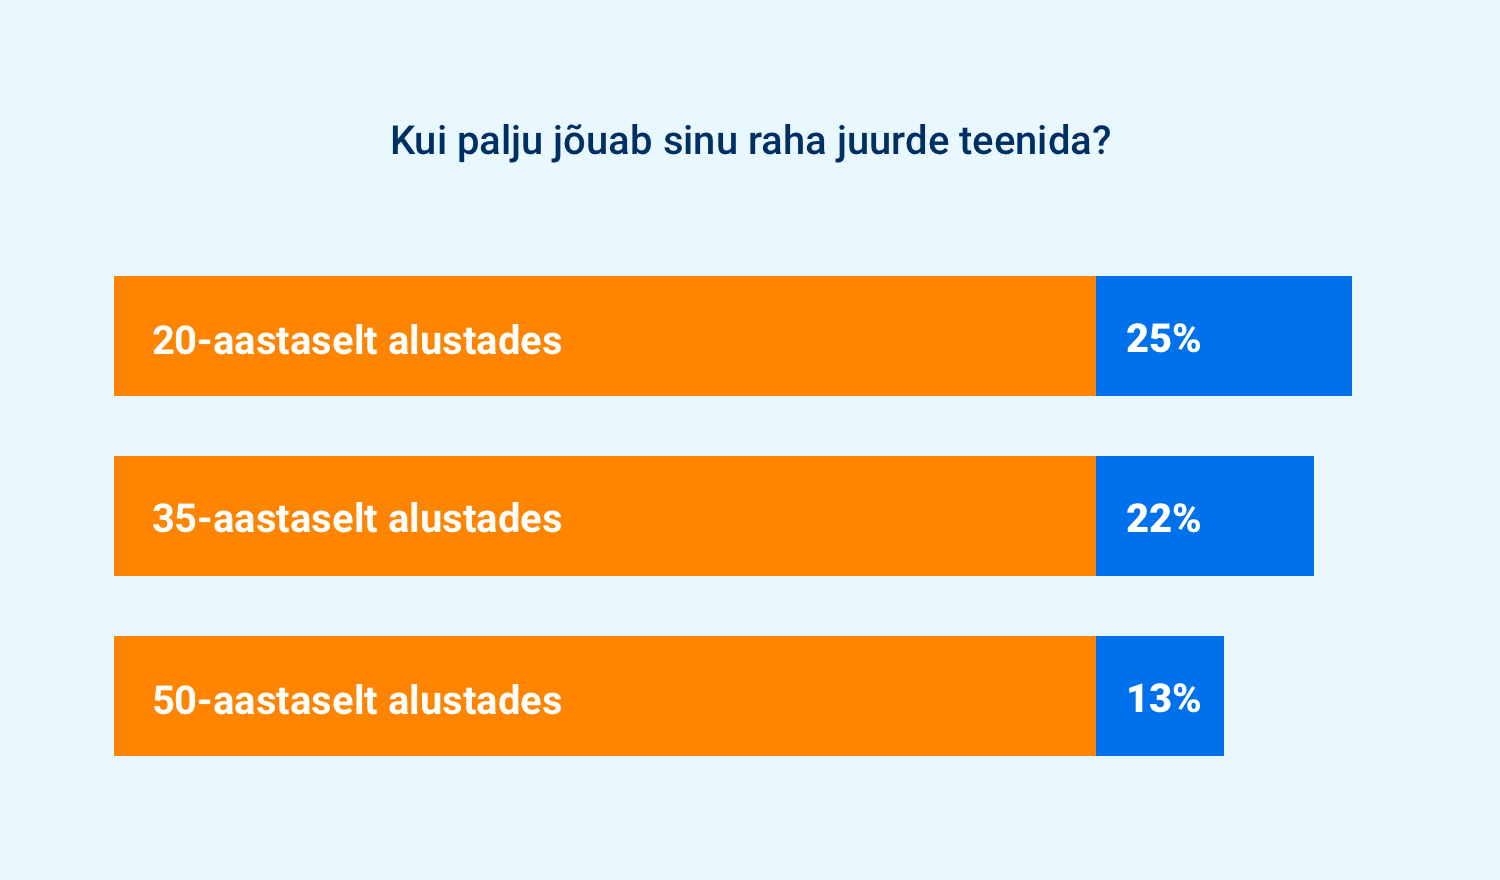
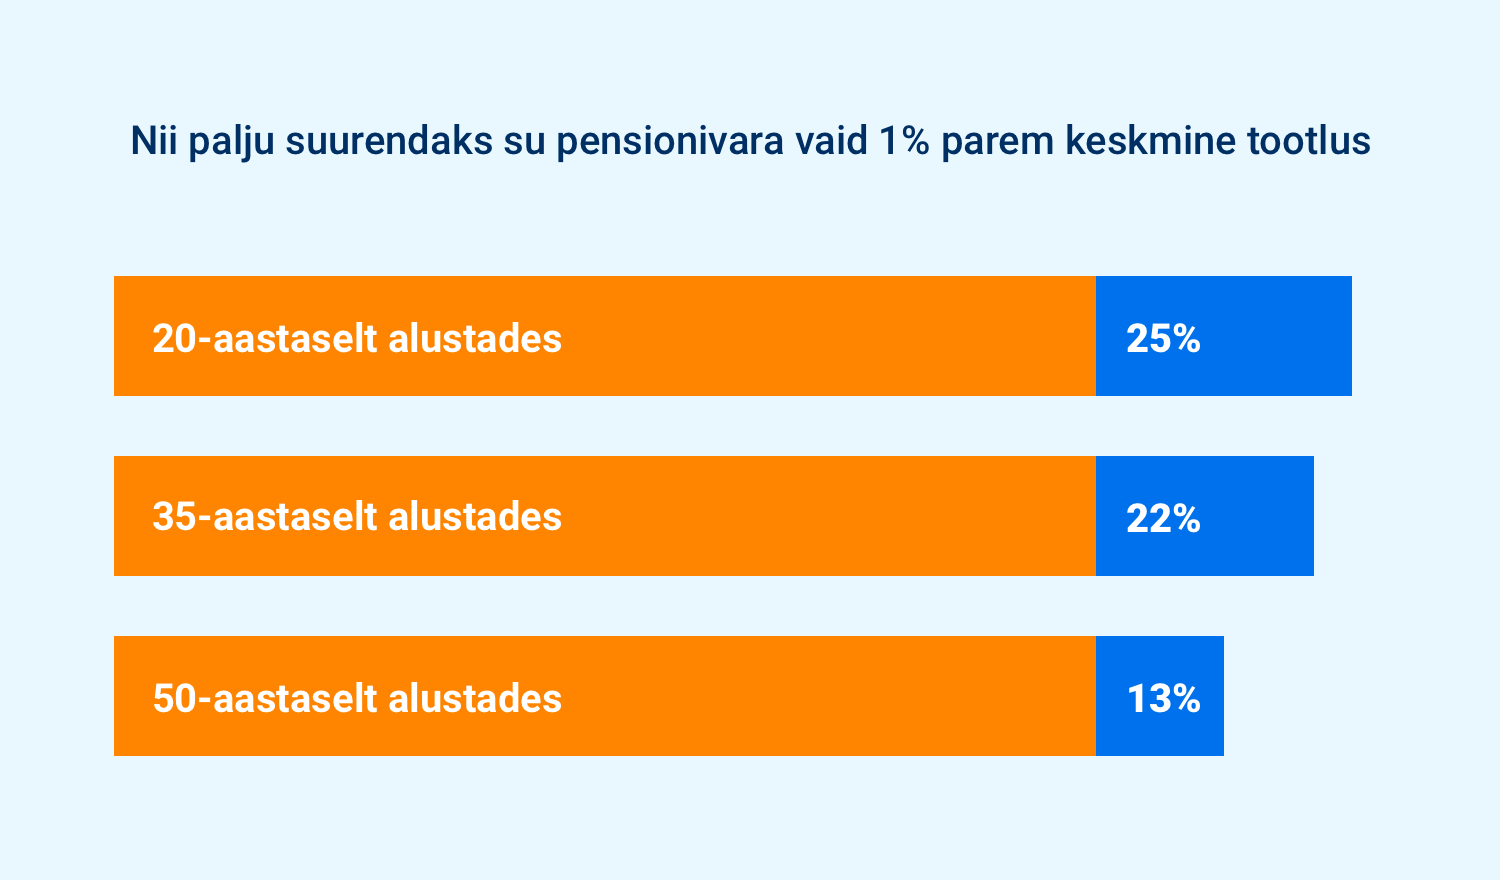
Referral page tweaks

diff --git a/src/wp-content/themes/tuleva/css/main.css b/src/wp-content/themes/tuleva/css/main.css
@@ -7824,6 +7824,9 @@ small,
   background: url("../img/icon-plussign.svg") no-repeat right center;
   white-space: normal; }
 
+.principle__item:hover {
+  cursor: pointer; }
+
 .principle blockquote {
   font-size: 1.25rem;
   color: #002F63; }
@@ -7998,19 +8001,20 @@ small,
       background-image: linear-gradient(180deg, rgba(209, 244, 255, 0.88), rgba(209, 244, 255, 0.88)), url("../img/nyc_w_480.jpg"); } }
 
 .bg-hero-referral {
-  background-image: linear-gradient(180deg, rgba(209, 244, 255, 0.92), rgba(209, 244, 255, 0.92)), url("../img/hands.jpg");
-  background-position: 0px 0px, 50% 0px;
+  background-image: linear-gradient(180deg, rgba(209, 244, 255, 0.92), rgba(209, 244, 255, 0.92)), url("../img/hands_w_2170.jpg");
+  background-position: 0px 0px, 50% 35%;
   background-size: auto, cover;
   background-repeat: repeat, no-repeat; }
   @media (max-width: 1199px) {
     .bg-hero-referral {
-      background-image: linear-gradient(180deg, rgba(209, 244, 255, 0.92), rgba(209, 244, 255, 0.92)), url("../img/hands_w_1400.jpg"); } }
+      background-image: linear-gradient(180deg, rgba(209, 244, 255, 0.92), rgba(209, 244, 255, 0.92)), url("../img/hands_w_1613.jpg"); } }
   @media (max-width: 767px) {
     .bg-hero-referral {
-      background-image: linear-gradient(180deg, rgba(209, 244, 255, 0.92), rgba(209, 244, 255, 0.92)), url("../img/hands_w_1291.jpg"); } }
+      background-image: linear-gradient(180deg, rgba(209, 244, 255, 0.92), rgba(209, 244, 255, 0.92)), url("../img/hands_w_1145.jpg");
+      background-position: 0px 0px, 75% 35%; } }
   @media (max-width: 575px) {
     .bg-hero-referral {
-      background-image: linear-gradient(180deg, rgba(209, 244, 255, 0.92), rgba(209, 244, 255, 0.92)), url("../img/hands_w_610.jpg"); } }
+      background-image: linear-gradient(180deg, rgba(209, 244, 255, 0.92), rgba(209, 244, 255, 0.92)), url("../img/hands_w_480.jpg"); } }
 
 .bg-blueish-gray {
   background: #f0f4f7; }

diff --git a/src/wp-content/themes/tuleva/scss/_themes.scss b/src/wp-content/themes/tuleva/scss/_themes.scss
@@ -72,18 +72,19 @@
 }
 
 .bg-hero-referral {
-    background-image: linear-gradient(180deg, rgba(209, 244, 255, .92), rgba(209, 244, 255, .92)), url('../img/hands.jpg');
-    background-position: 0px 0px, 50% 0px;
+    background-image: linear-gradient(180deg, rgba(209, 244, 255, .92), rgba(209, 244, 255, .92)), url('../img/hands_w_2170.jpg');
+    background-position: 0px 0px, 50% 35%;
     background-size: auto, cover;
     background-repeat: repeat, no-repeat;
     @include media-breakpoint-down (lg) {
-        background-image: linear-gradient(180deg, rgba(209, 244, 255, .92), rgba(209, 244, 255, .92)), url('../img/hands_w_1400.jpg');
+        background-image: linear-gradient(180deg, rgba(209, 244, 255, .92), rgba(209, 244, 255, .92)), url('../img/hands_w_1613.jpg');
     }
     @include media-breakpoint-down (sm) {
-        background-image: linear-gradient(180deg, rgba(209, 244, 255, .92), rgba(209, 244, 255, .92)), url('../img/hands_w_1291.jpg');
+        background-image: linear-gradient(180deg, rgba(209, 244, 255, .92), rgba(209, 244, 255, .92)), url('../img/hands_w_1145.jpg');
+        background-position: 0px 0px, 75% 35%;
     }
     @include media-breakpoint-only (xs) {
-        background-image: linear-gradient(180deg, rgba(209, 244, 255, .92), rgba(209, 244, 255, .92)), url('../img/hands_w_610.jpg');
+        background-image: linear-gradient(180deg, rgba(209, 244, 255, .92), rgba(209, 244, 255, .92)), url('../img/hands_w_480.jpg');
     }
 }
 

diff --git a/src/wp-content/themes/tuleva/scss/_components.scss b/src/wp-content/themes/tuleva/scss/_components.scss
@@ -1440,6 +1440,9 @@
         background: url("../img/icon-plussign.svg") no-repeat right center;
         white-space: normal;
     }
+    &__item:hover {
+        cursor: pointer;
+    }
 
     blockquote {
         font-size: $font-size-md;

diff --git a/src/wp-content/themes/tuleva/templates/components/referral-body.php b/src/wp-content/themes/tuleva/templates/components/referral-body.php
@@ -1,12 +1,14 @@
 <section class="py-6">
     <div class="container">
         <div class="row mb-5">
-            <div class="mx-md-auto col-md-10">
-                <div class="qa__question-wrapper principle">
-                    <a class="btn btn-link principle__item" data-toggle="collapse" href="#answer-1">
-                        <span class="inline-signup__number">1</span>Tegutse kohe. Mida varem valid õige fondi, seda suurem on mõju su pensionile.
-                    </a>
-                    <div id="answer-1" class="row my-5">
+            <div class="mx-md-auto col-md-10" id="accordion">
+                <div class="qa__question-wrapper">
+                    <div id="headingOne">
+                        <button class="btn btn-link btn-block principle__item" data-toggle="collapse" data-target="#collapseOne" aria-expanded="true" aria-controls="collapseOne">
+                            <span class="inline-signup__number">1</span>Tegutse kohe. Mida varem valid õige fondi, seda suurem on mõju su pensionile.
+                        </button>
+                    </div>
+                    <div id="collapseOne" class="collapse show my-5" aria-labelledby="headingOne" data-parent="#accordion">
                         <div class="col-md-10 col-lg-8 mx-auto">
                             <p class="blockquote text-blue mb-5">“Liitintress on kaheksas maailmaime. Kes aru saab, teenib seda. Kes ei saa, maksab seda.” Albert Einstein</p>
 
@@ -23,10 +25,12 @@
                 </div>
                 <hr />
                 <div class="qa__question-wrapper">
-                    <a class="btn btn-link principle__item" data-toggle="collapse" href="#answer-2">
-                        <span class="inline-signup__number">2</span>Vali agressiivne fond. Pea meeles, et riskivaba tulu pole olemas.
-                    </a>
-                    <div id="answer-2" class="collapse my-5">
+                    <div id="headingTwo">
+                        <button class="btn btn-link btn-block principle__item" data-toggle="collapse" data-target="#collapseTwo" aria-expanded="false" aria-controls="collapseTwo">
+                            <span class="inline-signup__number">2</span>Vali agressiivne fond. Pea meeles, et riskivaba tulu pole olemas.
+                        </button>
+                    </div>
+                    <div id="collapseTwo" class="collapse my-5" aria-labelledby="headingTwo" data-parent="#accordion">
                         <div class="col-md-10 col-lg-8 mx-auto">
                             <p class="blockquote text-blue mb-5">“Aktsiaturg on vahend raha liigutamiseks kannatamatute käest kannatlike kätte.” Warren Buffett. </p>
 
@@ -44,10 +48,12 @@
                 </div>
                 <hr />
                 <div class="qa__question-wrapper">
-                    <a class="btn btn-link principle__item" data-toggle="collapse" href="#answer-3">
-                        <span class="inline-signup__number">3</span>Ära püüa turgu ajastada. Vali indeksifond.
-                    </a>
-                    <div id="answer-3" class="collapse my-5">
+                    <div id="headingThree">
+                        <button class="btn btn-link btn-block principle__item" data-toggle="collapse" data-target="#collapseThree" aria-expanded="false" aria-controls="collapseThree">
+                            <span class="inline-signup__number">3</span>Ära püüa turgu ajastada. Vali indeksifond.
+                        </button>
+                    </div>
+                    <div id="collapseThree" class="collapse my-5" aria-labelledby="headingThree" data-parent="#accordion">
                         <div class="col-md-10 col-lg-8 mx-auto">
 
                             <p class="blockquote text-blue mb-5">“Investorid on kaotanud palju rohkem raha turu languseks valmistudes või seda ette näha püüdes kui
@@ -57,9 +63,7 @@
                                 summade kaupa - 6% palgast iga kuu. Sinu kasuks töötab automaatselt pikaajalise investori parim
                                 riskide maandamise tööriist: dollar cost averaging ehk ostude ajas hajutamine.</p>
 
-                            <p><span class="text-highlight text-bold">Vali passiivselt juhitud pensionifond ehk indeksifond</span>, sest sellises fondis investeeritakse sinu
-                                vara sama regulaarselt kui sa säästad. Fondijuht ei saa jätta su raha pikaks ajaks pangaarvele
-                                seisma ega teha mingil perioodil liiga uljaid investeerimisotsuseid.</p>
+                            <p>Nagu Warren Buffett, on enamik maailma juhtivaid majandusteadlasi veendunud, et pensioniks raha kogumiseks sobib kõige paremini <span class="text-highlight text-bold">passiivselt juhitud pensionifond ehk indeksifond</span>. Sellises fondis võid kindel olla, et sinu vara investeeritakse sama regulaarselt kui sa säästad. Aktiivselt juhitud fondis võib fondijuht jätta su raha pikaks ajaks pangaarvele seisma või teha liiga uljaid investeerimisotsuseid. Liigne kartlikkus ja julgus on sulle ühtemoodi kahjulikud.</p>
 
                             <img src="<?php echo get_template_directory_uri() ?>/img/fig-principle-3.png" class="img-fluid" alt="Eesti II sambasse pandud raha käekäik 2003-2016" />
                             <cite class="d-block small text-secondary mt-3 mb-5">Maailmaturu indeks: 50% MSCI ACWI (EUR) ja 50% Euro Government
@@ -75,10 +79,12 @@
                 </div>
                 <hr />
                 <div class="qa__question-wrapper">
-                    <a class="btn btn-link principle__item" data-toggle="collapse" href="#answer-4">
-                        <span class="inline-signup__number">4</span>Kulud on tähtsamad kui sa arvad. Ära maksa tasudeks rohkem kui pool protsenti.
-                    </a>
-                    <div id="answer-4" class="collapse my-5">
+                    <div id="headingFour">
+                        <button class="btn btn-link btn-block principle__item" data-toggle="collapse" data-target="#collapseFour" aria-expanded="false" aria-controls="collapseFour">
+                            <span class="inline-signup__number">4</span>Kulud on tähtsamad kui sa arvad. Ära maksa tasudeks rohkem kui pool protsenti.
+                        </button>
+                    </div>
+                    <div id="collapseFour" class="collapse my-5" aria-labelledby="headingFour" data-parent="#accordion">
                         <div class="col-md-10 col-lg-8 mx-auto">
                             <p class="blockquote text-blue mb-5">“On üks usaldusväärne soovitus, mille järgimine sinu investeerimistulu parandab: hoia investeeringu
                                 kulud võimalikult madalal.” Burton G. Malkiel </p>
@@ -102,10 +108,12 @@
                 </div>
                 <hr />
                 <div class="qa__question-wrapper">
-                    <a class="btn btn-link principle__item" data-toggle="collapse" href="#answer-5">
-                        <span class="inline-signup__number">5</span>Ole järjekindel. Ära hüple pensionifondidest sisse-välja.
-                    </a>
-                    <div id="answer-5" class="collapse my-5">
+                    <div id="headingFive">
+                        <button class="btn btn-link btn-block principle__item" data-toggle="collapse" data-target="#collapseFive" aria-expanded="false" aria-controls="collapseFive">
+                            <span class="inline-signup__number">5</span>Ole järjekindel. Ära hüple pensionifondidest sisse-välja.
+                        </button>
+                    </div>
+                    <div id="collapseFive" class="collapse my-5" aria-labelledby="headingFive" data-parent="#accordion">
                         <div class="col-md-10 col-lg-8 mx-auto">
                             <p class="blockquote text-blue mb-5">“Aeg on su sõber ja impulss sinu vaenlane.” Jack Bogle</p>
 
@@ -127,10 +135,9 @@
 
         <div class="row mt-6">
             <div class="col-md-10 col-lg-8 mx-auto emphasis-box p-5">
-                <h5 class="text-center">Kui nõustud ülaltooduga, siis sobib sulle</h5>
+                <h5 class="text-center">Just nendest põhimõtetest lähtudes on loodud</h5>
                 <h3  class="text-center">Tuleva Maailma Aktsiate Pensionifond</h3>
-                <p class="text-center">mis on loodud nendest põhimõtetest lähtudes.</br> Selles fondis
-                    kogub raha enamik Tuleva asutajaid ja liikmeid.</p>
+                <p class="text-center">Selles fondis kogub raha enamik Tuleva asutajaid ja liikmeid. Tule kogu ka meiega koos.</p>
 
 
                 <div class="qa__question-wrapper">
@@ -160,11 +167,11 @@
 
         <div class="row my-5">
             <div class="col-md-10 col-lg-8 mx-auto">
-                <p>Tuleva ei ole pank, vaid <span class="text-highlight text-bold">22 Eesti ühiskonnategelase algatusel</span> loodud pensionikogujate ühendus, mille eesmärk
-                    on aidata teha Eesti pensionistrateegia paremaks, lähtudes eelkõige inimeste, mitte pankade ja kindlustusseltside
-                    huvidest. </p>
+                <p>Pankade fondivalitsejate eesmärk on teenida omanikele kasumit. Tuleva eesmärk on kasvatada pensionikogujate vara, vabanedes ahnetest vahemeestest ja hoides kulud hästi madalal.</p>
 
-                    <img src="<?php echo get_template_directory_uri() ?>/img/founding-members@2x.jpg" class="img-fluid my-4" alt="Tuleva tootlus" />
+                <p>Tuleva ei ole pank, vaid <a href="https://tuleva.ee/tulundusyhistu/#founder-stories" target="_blank" class="">22 Eesti ühiskonnategelase</a> algatusel loodud pensionikogujate ühendus. Meie eesmärk on koos targemalt koguda, kaitsta inimeste huve ja aidata riigil teha Eestile paremad seadused, mis lähtuvad eelkõige <span class="text-highlight text-bold">inimeste, mitte pankade</span> ja kindlustusseltside kasust.</p>
+
+                <img src="<?php echo get_template_directory_uri() ?>/img/founding-members@2x.jpg" class="img-fluid my-4" alt="Tuleva tootlus" />
             </div>
         </div>
 

diff --git a/src/wp-content/themes/tuleva/templates/components/referral-info-header.php b/src/wp-content/themes/tuleva/templates/components/referral-info-header.php
@@ -4,7 +4,7 @@
             <div class="row py-5">
                 <div class="col-lg-8 mx-auto text-center">
                     <h2 class="mb-4">5 asja, millest pensioniks kogudes juhinduda, kui oled 18-55-aastane</h2>
-                    <p class="lead text-navy mb-0"><span class="text-highlight">6% sinu brutopalgast</span> läheb iga kuu kohustusliku kogumispensioni fondi. See teeb sinust investori rahvusvahelistel väärtpaberiturgudel, meeldib see sulle või ei meeldi. Tulevik ega turud garantiisid ei paku, aga tark on anda oma rahale kasvuks võimalikult head eeldused.</p>
+                    <p class="lead text-navy mb-0">Kui sa ei tee palju asju valesti, pead tegema ainult mõned asjad õigesti, on öelnud üks maailma edukamaid investoreid Warren Buffett. Ta soovitab oma järeltulijatel panna vara <span class="text-highlight text-bold">madalate kuludega indeksifondi</span>. Siin on need vähesed asjad, millest pensioniks kogumisel lähtuda:</p>
                 </div>
             </div>
         </div>

diff --git a/src/wp-content/themes/tuleva/helpers/enqueue.php b/src/wp-content/themes/tuleva/helpers/enqueue.php
@@ -27,7 +27,7 @@ class ThemeEnqueue {
                 'handle' => 'main-style',
                 'src' => $css_path . 'main.css',
                 'deps' => 'normalize',
-                'ver' => '07022018v2',
+                'ver' => '08022018',
                 'media' => 'all',
                 'enqueue' => true
             ],
